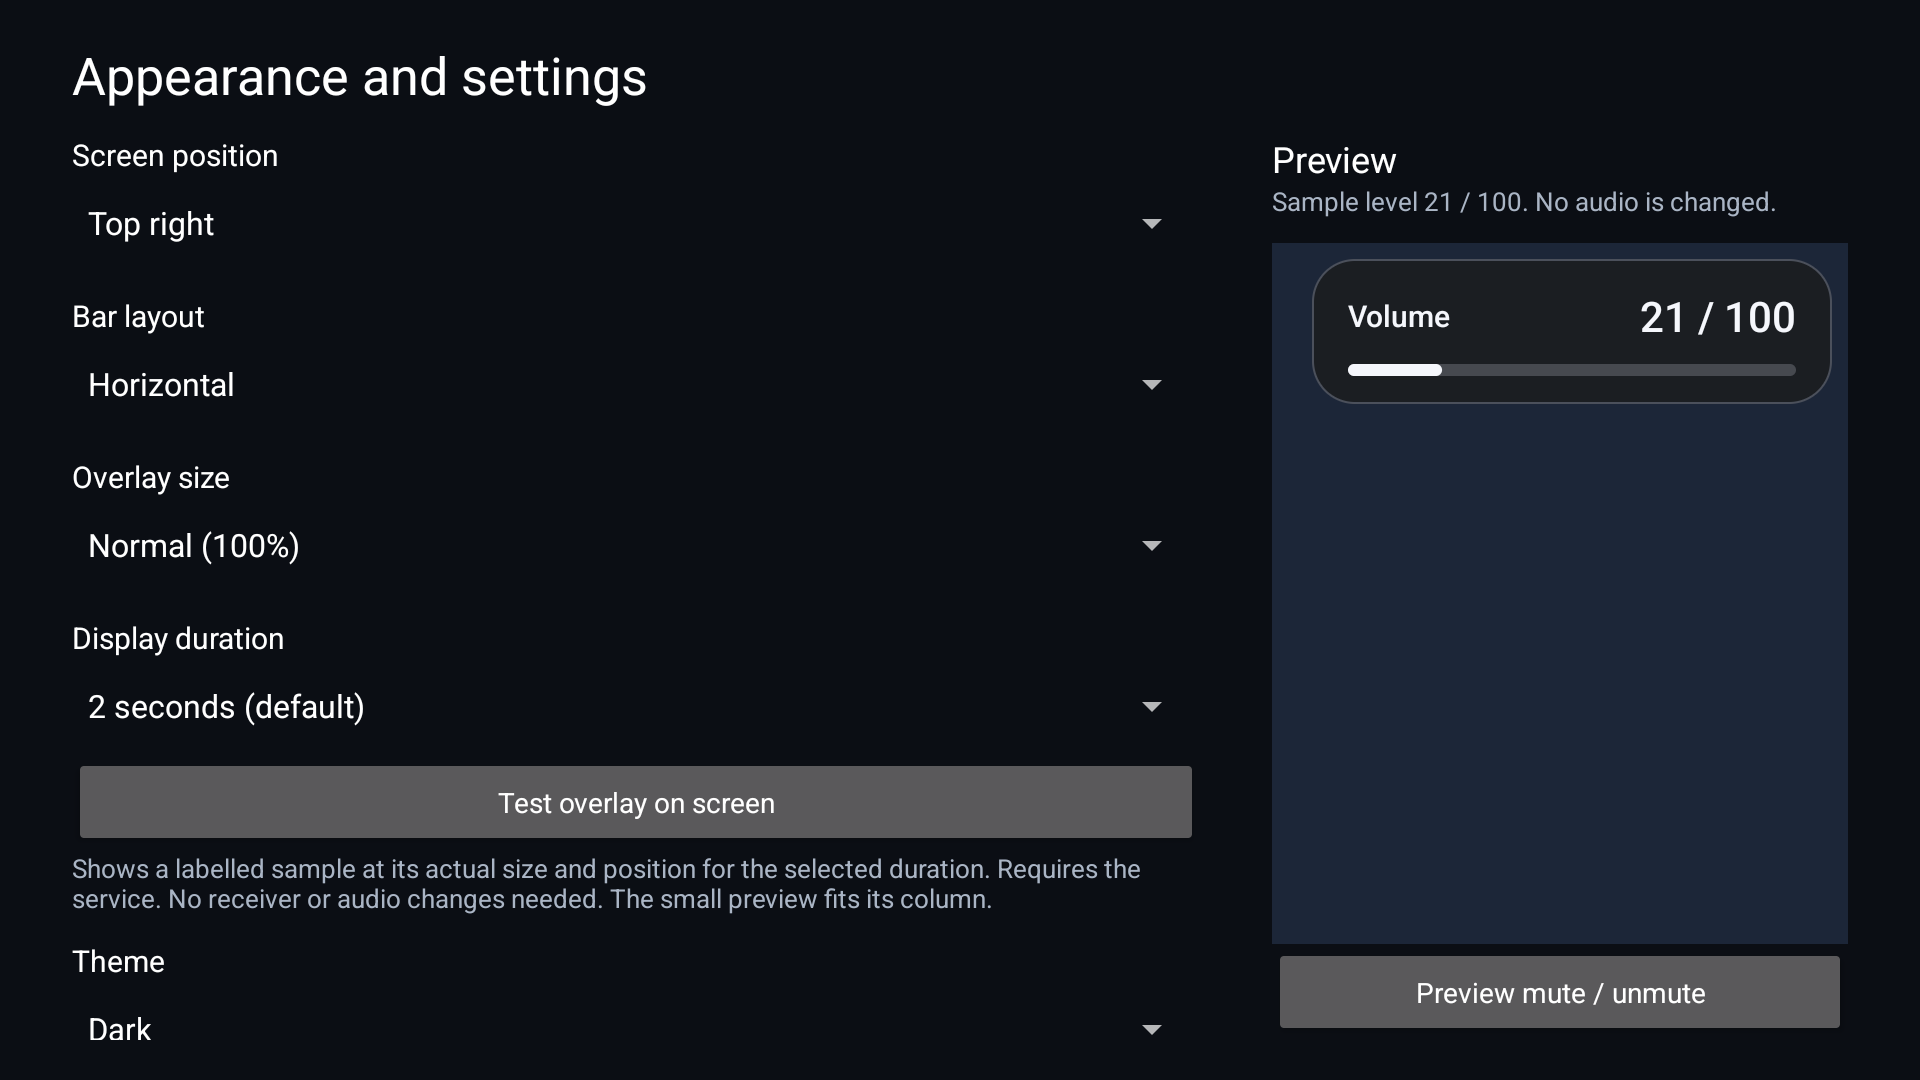
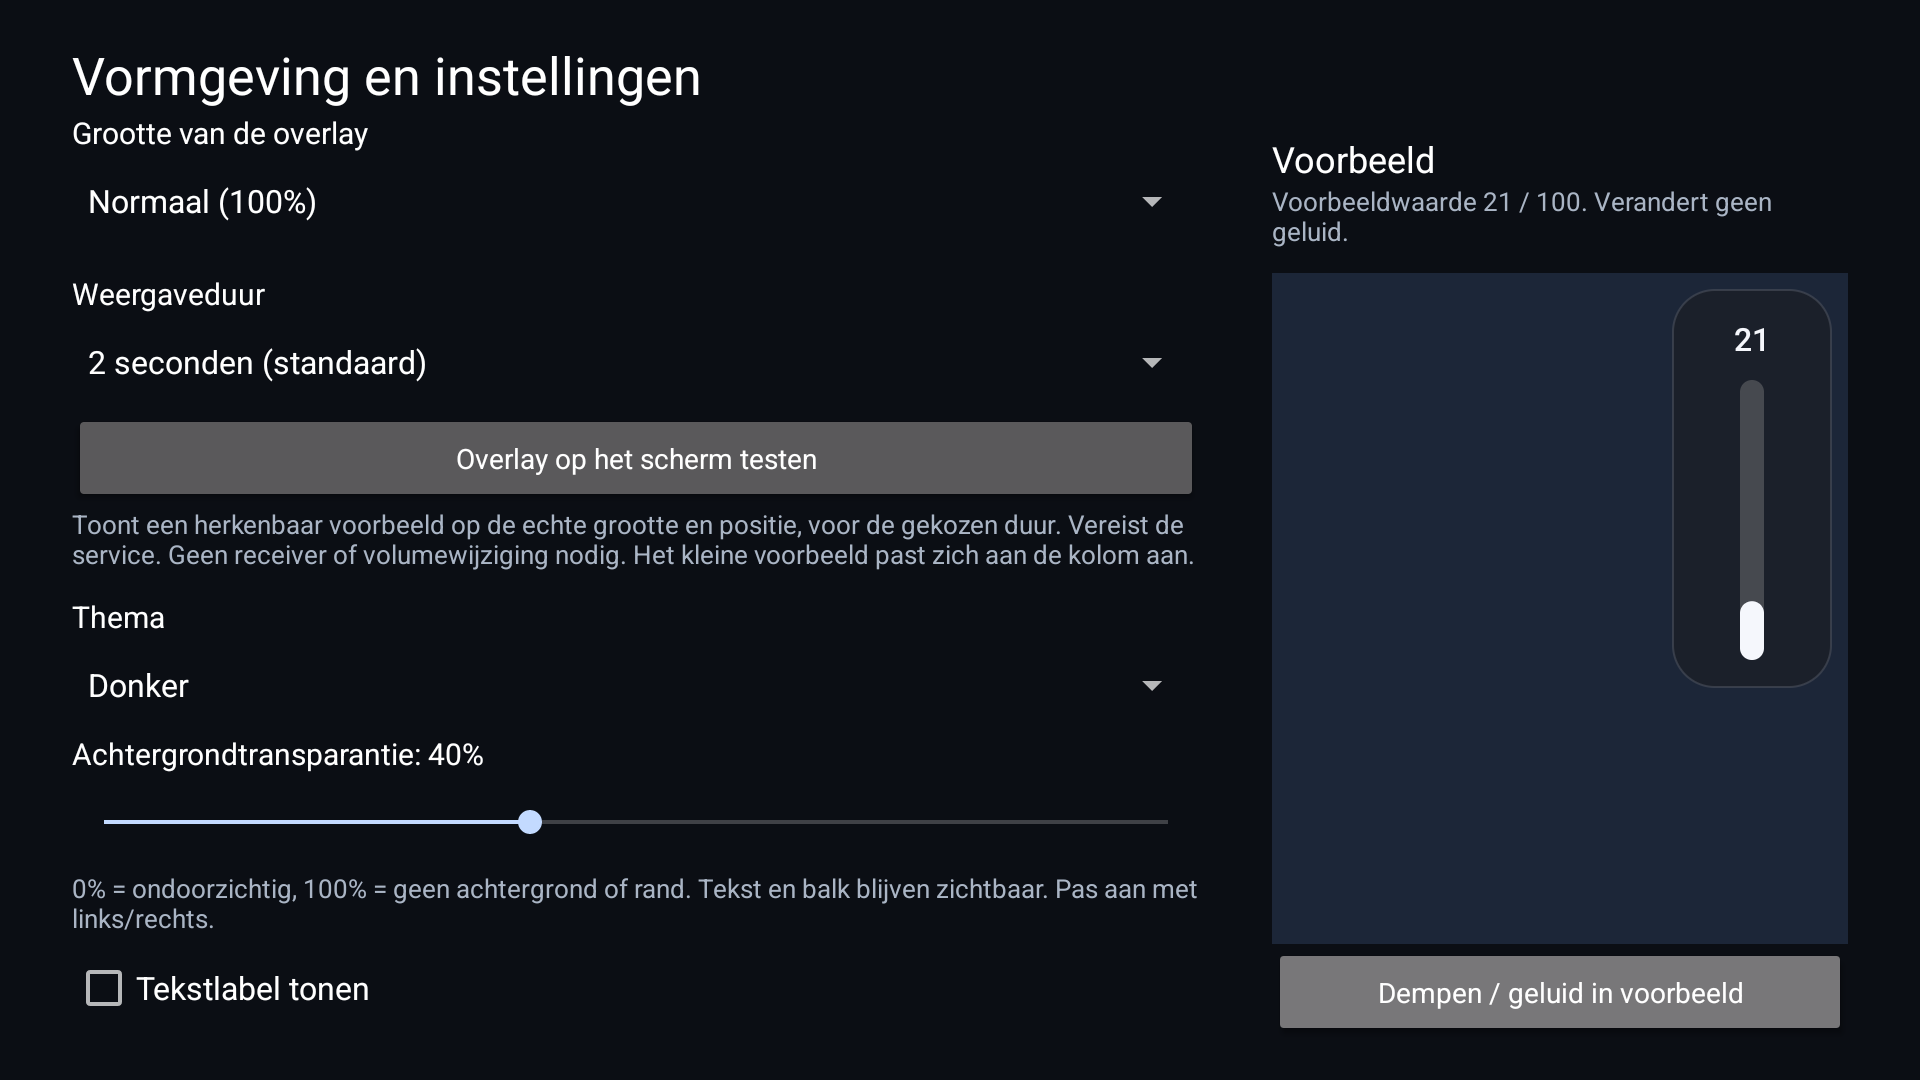
Polish setup buttons and slim vertical overlay with fresh TV screenshots

diff --git a/app/src/main/java/be/mathiasvandepol/tvvolume/MainActivity.java b/app/src/main/java/be/mathiasvandepol/tvvolume/MainActivity.java
@@ -18,6 +18,7 @@ import android.widget.Toast;
 
 public final class MainActivity extends Activity {
     private TextView status;
+    private final AccessibilityManager.AccessibilityServicesStateChangeListener serviceListener = this::updateStatus;
     private int dp(int n) { return Math.round(n * getResources().getDisplayMetrics().density); }
     @Override public void onCreate(Bundle state) {
         super.onCreate(state);
@@ -44,19 +45,7 @@ public final class MainActivity extends Activity {
         requirementsParams.topMargin = dp(14);
         root.addView(text(R.string.requirements, 14, 0xFFB1BDD0), requirementsParams);
         root.addView(text(R.string.privacy, 13, 0xFF8D9BB0));
-        Button settings = new Button(this);
-        settings.setText(R.string.open_settings);
-        settings.setAllCaps(false);
-        settings.setTextSize(16);
-        settings.setPadding(dp(24), 0, dp(24), 0);
-        settings.setMinHeight(dp(48));
-        settings.setOnFocusChangeListener((view, focused) -> {
-            GradientDrawable bg = new GradientDrawable();
-            bg.setCornerRadius(dp(15));
-            bg.setColor(focused ? 0xFFD6E5FF : 0xFF223048);
-            settings.setTextColor(focused ? 0xFF111C2C : Color.WHITE);
-            settings.setBackground(bg);
-        });
+        Button settings = actionButton(R.string.open_settings);
         settings.setOnClickListener(view -> {
             try { startActivity(new Intent(Settings.ACTION_ACCESSIBILITY_SETTINGS)); }
             catch (ActivityNotFoundException e) { Toast.makeText(this, R.string.settings_unavailable, Toast.LENGTH_LONG).show(); }
@@ -64,16 +53,35 @@ public final class MainActivity extends Activity {
         LinearLayout.LayoutParams buttonParams = new LinearLayout.LayoutParams(-2, dp(48));
         buttonParams.topMargin = dp(20);
         root.addView(settings, buttonParams);
-        Button customize = new Button(this);
-        customize.setText(R.string.customize);
-        customize.setAllCaps(false);
+        Button customize = actionButton(R.string.customize);
         customize.setOnClickListener(view -> startActivity(new Intent(this, AppearanceActivity.class)));
-        root.addView(customize, new LinearLayout.LayoutParams(-2, dp(48)));
+        LinearLayout.LayoutParams customizeParams = new LinearLayout.LayoutParams(-2, dp(48));
+        customizeParams.topMargin = dp(8);
+        root.addView(customize, customizeParams);
         android.widget.ScrollView scroll = new android.widget.ScrollView(this);
         scroll.setFillViewport(true);
         scroll.addView(root);
         setContentView(scroll);
         settings.requestFocus();
+    }
+    private Button actionButton(int label) {
+        Button button = new Button(this);
+        button.setText(label);
+        button.setAllCaps(false);
+        button.setTextSize(16);
+        button.setPadding(dp(24), 0, dp(24), 0);
+        button.setMinHeight(dp(48));
+        button.setMinWidth(dp(280));
+        button.setOnFocusChangeListener((view, focused) -> styleButton(button, focused));
+        styleButton(button, false);
+        return button;
+    }
+    private void styleButton(Button button, boolean focused) {
+        GradientDrawable background = new GradientDrawable();
+        background.setCornerRadius(dp(15));
+        background.setColor(focused ? 0xFFD6E5FF : 0xFF223048);
+        button.setTextColor(focused ? 0xFF111C2C : Color.WHITE);
+        button.setBackground(background);
     }
     private TextView text(int resource, int sp, int color) {
         TextView view = new TextView(this);
@@ -82,9 +90,21 @@ public final class MainActivity extends Activity {
         view.setTextColor(color);
         return view;
     }
+    @Override protected void onStart() {
+        super.onStart();
+        AccessibilityManager manager = getSystemService(AccessibilityManager.class);
+        if (manager != null) manager.addAccessibilityServicesStateChangeListener(getMainExecutor(), serviceListener);
+    }
+    @Override protected void onStop() {
+        AccessibilityManager manager = getSystemService(AccessibilityManager.class);
+        if (manager != null) manager.removeAccessibilityServicesStateChangeListener(serviceListener);
+        super.onStop();
+    }
     @Override protected void onResume() {
         super.onResume();
-        AccessibilityManager manager = getSystemService(AccessibilityManager.class);
+        updateStatus(getSystemService(AccessibilityManager.class));
+    }
+    private void updateStatus(AccessibilityManager manager) {
         boolean enabled = false;
         if (manager != null) {
             for (AccessibilityServiceInfo info : manager.getEnabledAccessibilityServiceList(AccessibilityServiceInfo.FEEDBACK_ALL_MASK)) {

diff --git a/app/src/main/java/be/mathiasvandepol/tvvolume/VolumePanel.java b/app/src/main/java/be/mathiasvandepol/tvvolume/VolumePanel.java
@@ -18,6 +18,7 @@ final class VolumePanel extends LinearLayout {
     private final Meter meter;
     private final OverlayPreferences options;
     private final float scale;
+    private final int baseWidth;
     final boolean vertical;
     public VolumePanel(Context context) { this(context, new OverlayPreferences(context)); }
     VolumePanel(Context context, OverlayPreferences options) { this(context, options, false); }
@@ -25,11 +26,14 @@ final class VolumePanel extends LinearLayout {
         super(context);
         this.options = options;
         vertical = options.layout() == OverlayOptions.Layout.VERTICAL;
+        baseWidth = !vertical ? 260 : options.numbers() == OverlayOptions.Numbers.FULL ? 104
+                : options.showLabel() || options.numbers() == OverlayOptions.Numbers.VALUE ? 80 : 48;
         // The small settings preview fits its column. The test overlay uses the true size.
-        scale = fitPreview ? Math.min(options.size().factor, 270f / (vertical ? 132 : 260)) : options.size().factor;
+        scale = fitPreview ? Math.min(options.size().factor, 270f / baseWidth) : options.size().factor;
         setOrientation(VERTICAL);
         setGravity(Gravity.CENTER_HORIZONTAL);
-        setPadding(dp(18), dp(14), dp(18), dp(14));
+        int horizontalPadding = dp(vertical ? 8 : 18);
+        setPadding(horizontalPadding, dp(14), horizontalPadding, dp(14));
         setFocusable(false);
         int background = options.theme() == OverlayOptions.Theme.LIGHT ? 0xFFF2F4F8
                 : options.theme() == OverlayOptions.Theme.BLACK ? 0xFF000000 : 0xFF1B1D21;
@@ -77,13 +81,13 @@ final class VolumePanel extends LinearLayout {
     }
     void markAsTest() {
         TextView badge = text(12, options.theme() == OverlayOptions.Theme.LIGHT ? 0xFF172033 : 0xFFF5F7FC);
-        badge.setText(R.string.overlay_test_badge);
+        badge.setText(vertical ? R.string.overlay_test_badge_short : R.string.overlay_test_badge);
         badge.setGravity(Gravity.CENTER);
         LayoutParams params = new LayoutParams(-1, -2);
         params.bottomMargin = dp(8);
         addView(badge, 0, params);
     }
-    int panelWidth() { return dp(vertical ? 132 : 260); }
+    int panelWidth() { return dp(baseWidth); }
     private TextView text(int size, int color) {
         TextView result = new TextView(getContext());
         result.setTextSize(size * scale);

diff --git a/app/src/androidTest/java/be/mathiasvandepol/tvvolume/OverlayWindowDeviceTest.java b/app/src/androidTest/java/be/mathiasvandepol/tvvolume/OverlayWindowDeviceTest.java
@@ -38,10 +38,19 @@ public class OverlayWindowDeviceTest {
         Activity activity = null;
         automation.adoptShellPermissionIdentity(Manifest.permission.WRITE_SECURE_SETTINGS);
         try {
+            activity = instrumentation.startActivitySync(new Intent(context, MainActivity.class).addFlags(Intent.FLAG_ACTIVITY_NEW_TASK));
+            instrumentation.waitForIdleSync();
+            final Activity setup = activity;
             String component = context.getPackageName() + "/" + VolumeOverlayService.class.getName();
             Settings.Secure.putString(context.getContentResolver(), Settings.Secure.ENABLED_ACCESSIBILITY_SERVICES,
                     originalServices == null || originalServices.isEmpty() ? component : originalServices + ":" + component);
             Settings.Secure.putInt(context.getContentResolver(), Settings.Secure.ACCESSIBILITY_ENABLED, 1);
+            assertTrue("Setup status must update when the service binds without reopening the screen", await(() -> {
+                java.util.concurrent.atomic.AtomicBoolean visible = new java.util.concurrent.atomic.AtomicBoolean();
+                instrumentation.runOnMainSync(() -> visible.set(findText(setup.getWindow().getDecorView(), context.getString(R.string.status_on)) != null));
+                return visible.get();
+            }, 8000));
+            instrumentation.runOnMainSync(setup::finish);
             options.store.edit().putString("duration", "EXTRA_LONG").putString("size", "LARGE")
                     .putBoolean("show_label", false).putString("numbers", "HIDDEN").commit();
             activity = instrumentation.startActivitySync(new Intent(context, AppearanceActivity.class).addFlags(Intent.FLAG_ACTIVITY_NEW_TASK));

diff --git a/docs/VALIDATION.md b/docs/VALIDATION.md
@@ -43,19 +43,31 @@ Local checks completed:
 - Release unit tests, lint (zero errors; existing target-SDK warning only), signed release build and
   debug build passed. D-pad selection of vertical layout and the actual settings preview were inspected.
 
-The TV was switched off during implementation. No new HDMI-CEC, HDMI-input switching, Netflix,
-held-key, reboot persistence, or physical launcher behavior has been verified for this version.
-The physical-device evidence above applies to **1.0.0 only**. Do not treat the development version
-as a stable release until those device checks pass.
+Physical TV checks completed on 21 October 2026:
 
-Pending physical TV checks:
+- Installed the signed 1.1.0-dev candidate over 1.0.0 on the Xiaomi/Denon setup. The accessibility
+  service remains bound with capability mask zero, alongside the existing launcher helper.
+- The actual sample window appears and disappears at the default timeout. Actual reported volume
+  was also observed in the app-owned accessibility overlay above its own setup/settings screens.
+- Discovered the TV-input viewer. During four checks on the AVR HDMI input, Android received
+  volume updates while no app overlay window appeared. This is evidence for suppression on this TV.
+- The user confirmed that position, orientation, theme, transparency, text/number settings, preview
+  and the test button work with the real remote.
+- The user confirmed visibility during Netflix video playback, mute, held volume and automatic dismissal.
+- Matched both setup buttons, reduced vertical side padding from 18dp to 8dp, and made vertical
+  width depend on visible text/number choices (104dp full scale, 80dp label/value only, 48dp bar only,
+  before the chosen size factor). The latest UI was visually checked on the TV.
+- Fixed the setup status staying stale after an APK update: it now follows accessibility-service
+  state changes. The existing connected window test now also covers service binding while setup stays open.
+- Re-ran all 11 JVM and 6 isolated emulator tests, release lint and signed release build after the UI changes.
+- Both README screenshots are fresh, unedited captures of this version on the physical TV.
 
-- Discover the TV input viewer, hide on AVR HDMI input, restore in Home/Netflix, and check the
-  suppression toggle. Popups and the overlay itself must not clear the detected input screen.
-- Check all six screen positions, horizontal/vertical layouts and themes with the TV remote.
-- Check custom/hidden labels and all three number formats, including mute and held volume keys.
-- Hide the launcher icon; reopen through Accessibility → Settings and restore it. Verify after reboot.
-- Recheck no key filtering, non-touchable/non-focusable overlay windows, and each selected timeout (1/2/3/5 seconds), including the explicitly labelled test overlay.
+Remaining device checks before a stable release:
+
+- Hide the launcher icon, reopen through this TV’s Accessibility settings and restore it; verify after reboot.
+- Check preferences/service behavior after reboot and repeated input/route changes.
+- A controlled on/off comparison for the reported audible volume-control latency has not been completed.
+  The settings/Netflix confirmations above do not establish that this latency issue is fixed.
 
 Android/CEC precision limitation: the user reported a difference between the overlay and AVR display,
 and confirmed that the AVR supports half steps. Local evidence shows integer CEC reports copied into

diff --git a/README.md b/README.md
@@ -11,7 +11,9 @@ It works with your existing launcher.
 
 [**Download the latest APK**](https://github.com/MathiasVandePol/tv-volume-overlay/releases/latest)
 
-![TV Volume Overlay on an actual Android TV](docs/images/tv-volume-overlay.png)
+![Live horizontal volume overlay and matching setup buttons on a physical Xiaomi TV](docs/images/tv-volume-overlay.png)
+
+_Screenshots show the 1.1 development build on a physical Xiaomi MiTV-MOEU0 running Android 14._
 
 ## Requirements
 
@@ -113,10 +115,10 @@ actual overlay at your chosen size and position, with a **TEST · SAMPLE** badge
 needed for this deliberate test. It never changes volume or mute state. Normal volume feedback
 still requires the active ARC/eARC route. The badge remains visible even if you hide all other text.
 
-![Development settings with sample preview, captured on an emulator](docs/images/settings-preview.png)
+![Settings, transparency control and slim vertical preview on the physical Xiaomi TV](docs/images/settings-preview.png)
 
 - Six positions: top/bottom, left/center/right.
-- Horizontal or vertical bar; dark, light or black theme.
+- Horizontal or slim vertical bar; dark, light or black theme. The vertical panel narrows further when text/numbers are hidden.
 - Small (75%), normal (100%) or large (125%) size, scaling the text and bar together.
 - Background transparency from 0% (opaque) to 100% (no background/border). Text and bar remain visible. Default: 8%.
 - Display duration of 1, 2 (default, about 1.9), 3 or 5 seconds.
@@ -131,7 +133,7 @@ uses activity package/class metadata to recognize those screens. It does not ide
 HDMI socket or read screen content. Live TV in the same input-viewer app can also be suppressed.
 The settings page shows how many input apps were detected; zero means automatic hiding is unavailable
 on that firmware. You can disable suppression if it hides a screen where you want the overlay.
-TV firmware can affect discovery and foreground events; this new behavior still needs a physical TV test.
+Input suppression has been checked on the Xiaomi/Denon setup above. Other TV firmware can affect discovery and foreground events.
 
 ### Reopen after hiding the icon
 

diff --git a/RELEASE_NOTES.md b/RELEASE_NOTES.md
@@ -1,4 +1,4 @@
-Development candidate for 1.1 — physical TV validation pending.
+Development candidate for 1.1 — settings and Netflix checked on a physical TV; reboot/launcher recovery checks pending.
 
 - Hide the overlay on detected TV-input viewer screens to avoid the receiver’s duplicate bar.
 - Choose six positions, horizontal/vertical layout and dark/light/black themes.
@@ -6,10 +6,11 @@ Development candidate for 1.1 — physical TV validation pending.
 - Adjust background transparency from opaque to fully transparent, keeping text and bar visible.
 - Choose small/normal/large size and a 1/2/3/5-second display duration.
 - Preview locally or test the actual overlay on screen with a clear sample badge and no audio changes.
+- Consistent setup buttons, a slimmer vertical panel and live service-status updates.
 - Hide the launcher icon while retaining the service and an explicit setup/settings entry.
 - Keep remote keys and audio untouched; use only activity metadata for input detection.
 
 Input detection depends on firmware and can also hide on live TV using the same viewer app.
-Version 1.0.0 remains the stable release until the new candidate is tested on an actual TV.
+Version 1.0.0 remains the stable release while the remaining device checks are completed.
 
 Android/CEC values are whole numbers and may differ from the receiver’s own scale; half steps are not available.
